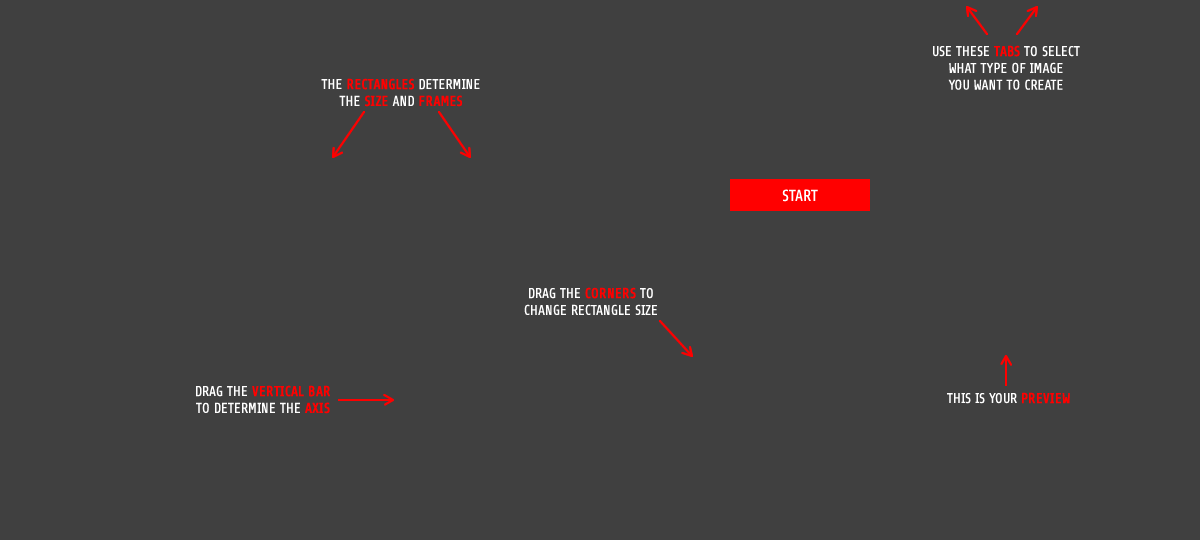
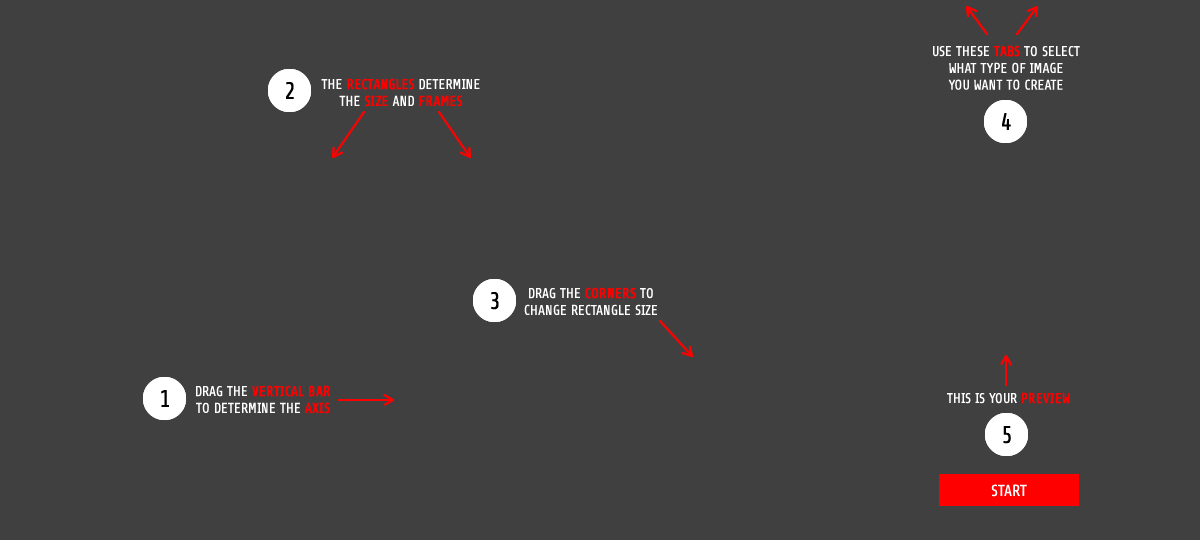
Improved instructions

diff --git a/app/controllers/gallery_controller.rb b/app/controllers/gallery_controller.rb
@@ -1,17 +1,18 @@
 class GalleryController < ApplicationController
   
   def index
+    per = 24
     page = params[:page] == nil ? 1 : params[:page]
     @type = params[:type] == nil ? "all" : params[:type]
     if @type == "all"
-      @images = Animation.order('created_at DESC').page(page).per(18)
+      @images = Animation.order('created_at DESC').page(page).per(per)
     elsif @type == "gif" || @type == "anaglyph"
-      @images = Animation.where("mode = ?", @type.upcase).order('created_at DESC').page(page).per(18)
+      @images = Animation.where("mode = ?", @type.upcase).order('created_at DESC').page(page).per(per)
     else
-      @images = Animation.order('created_at DESC').page(page).per(18)
+      @images = Animation.order('created_at DESC').page(page).per(per)
     end
     respond_to do |format|
-      format.html # view.html.erb
+      format.html # index.html.erb
       format.json { render :json => @images }
     end
   end
